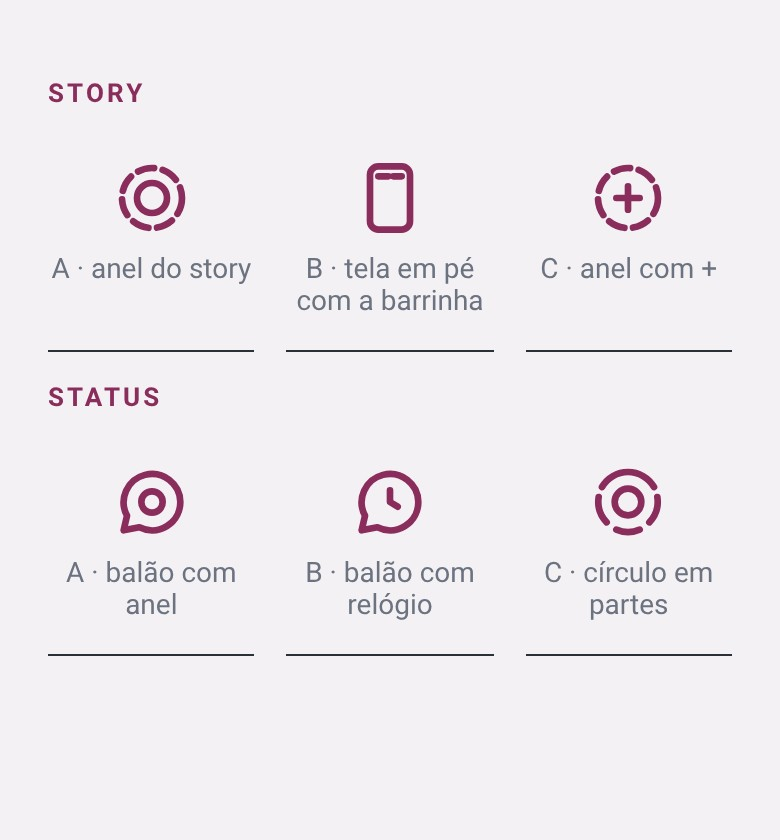
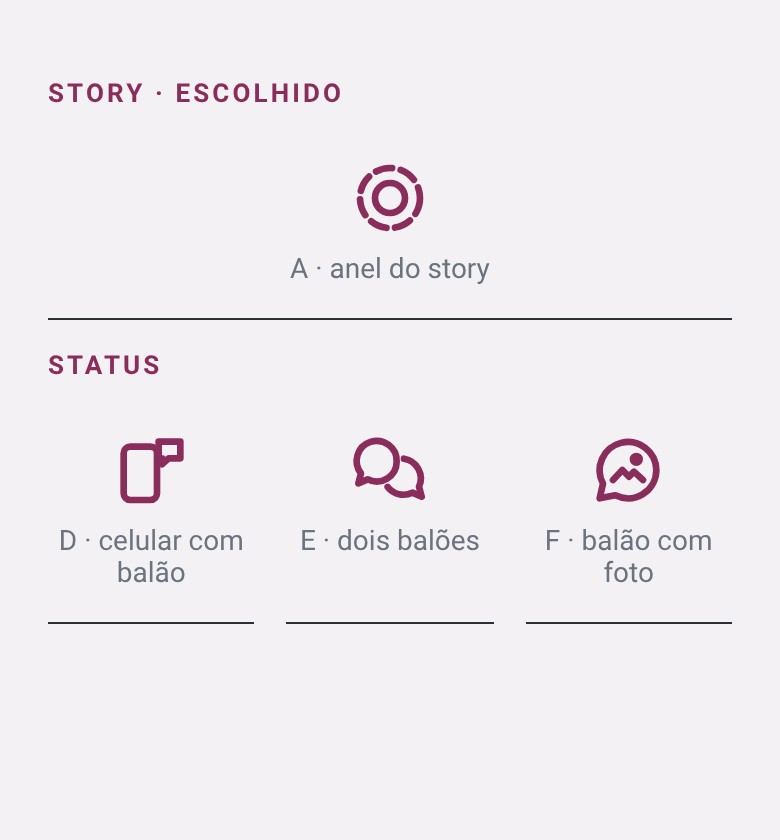
Ícones: Story A escolhido; novas opções de Status
Claude-Session: https://claude.ai/code/session_01Vj5GPRt4UBskC3w8v52h7G

diff --git a/work/semp/icones_story.py b/work/semp/icones_story.py
@@ -3,12 +3,10 @@ import sys;sys.path.insert(0,'/home/claude/lafouch/work/kit')
 import kit
 from playwright.sync_api import sync_playwright
 SV=lambda p:'<svg width="40" height="40" viewBox="0 0 24 24" fill="none" stroke="currentColor" stroke-width="2" stroke-linecap="round" stroke-linejoin="round">'+p+'</svg>'
-OP=[('Story',[('A · anel do story','<circle cx="12" cy="12" r="9" stroke-dasharray="5 2.6"></circle><circle cx="12" cy="12" r="4.5"></circle>'),
-             ('B · tela em pé com a barrinha','<rect x="6" y="2.5" width="12" height="19" rx="2.5"></rect><path d="M8.5 5.5h3M13 5.5h2.5"></path>'),
-             ('C · anel com +','<circle cx="12" cy="12" r="9" stroke-dasharray="5 2.6"></circle><path d="M12 8.5v7M8.5 12h7"></path>')]),
-    ('Status',[('A · balão com anel','<path d="M20.5 12a8.5 8.5 0 0 1-12.3 7.6L3.5 20.5l1-4.4A8.5 8.5 0 1 1 20.5 12z"></path><circle cx="12" cy="12" r="3.2"></circle>'),
-             ('B · balão com relógio','<path d="M20.5 12a8.5 8.5 0 0 1-12.3 7.6L3.5 20.5l1-4.4A8.5 8.5 0 1 1 20.5 12z"></path><path d="M12 8.5V12l2.3 1.4"></path>'),
-             ('C · círculo em partes','<path d="M12 3a9 9 0 0 1 7.8 4.5M20.8 10.5a9 9 0 0 1-2.4 7.6M15.5 20.3a9 9 0 0 1-7 0M5.6 18.1a9 9 0 0 1-2.4-7.6M4.2 7.5A9 9 0 0 1 12 3"></path><circle cx="12" cy="12" r="4"></circle>')])]
+OP=[('Story · escolhido',[('A · anel do story','<circle cx="12" cy="12" r="9" stroke-dasharray="5 2.6"></circle><circle cx="12" cy="12" r="4.5"></circle>')]),
+    ('Status',[('D · celular com balão','<rect x="3.5" y="5" width="10" height="16" rx="2"></rect><path d="M14 3.5h6.5v5H17l-2 1.8V8.5h-1z"></path>'),
+             ('E · dois balões','<path d="M14 9.5a6 6 0 0 1-8.7 5.3L2.5 16l.8-3A6 6 0 1 1 14 9.5z"></path><path d="M16.2 8.6A6 6 0 0 1 20.7 17l.8 3-2.8-1.2a6 6 0 0 1-7.4-1.7"></path>'),
+             ('F · balão com foto','<path d="M20.5 12a8.5 8.5 0 0 1-12.3 7.6L3.5 20.5l1-4.4A8.5 8.5 0 1 1 20.5 12z"></path><path d="M7.5 15l2.8-3 2 2 1.5-1.5 2.7 2.5"></path><circle cx="14.5" cy="8.8" r="1"></circle>')])]
 def html(esc):
   bg,fg,mu,ac=('#0f1216','#e7edf5','#8b9bb0','#f3c0dc') if esc else ('#f4f1f4','#1e161c','#6b7280','#8a2d5c')
   h='<body style="margin:0;background:%s;color:%s;font-family:Roboto,Arial;padding:24px">'%(bg,fg)

diff --git a/docs/FALTA-APROVAR-15-11.md b/docs/FALTA-APROVAR-15-11.md
@@ -857,3 +857,4 @@ Não são esquecimento (estavam na lista, parados de propósito ou por ordem do 
 - 20/11 15:50 — ESBOÇO-IDEIA Semp · tendência refinada (aprovado 15:30): work/semp/esboco_semp_tendencia2_{escuro,claro}.jpg — 3 casos: (1) NÃO tem: nome do modelo, fotos de referência (só no app), 'Modelo · Confirmar', 'Você tem? Não tem nenhum parecido', 'Onde comprar em CDE' (cadastrada / achada no Instagram · não cadastrada, preço, Microcentro, Mapa), 'Cadastrar a nova ›', O Guardião diz, 'Pedir à distribuidora'; (2) TEM com estoque (Óculos solar #13, 9 em estoque): 'O Semp sugere: Postar hoje às 20h' + 'Criar o post'; (3) tem POUCO (Armação #12, 3 em estoque): 'O Guardião diz: Repor 12 un.' + 'Repor'. Substitui o esboço da tendência anterior (obsoletos). COMO FAZER: 'Você tem?' usa a mesma busca por foto do cadastro (≥80%) — uma função só; 'Cadastrar a nova' abre o Novo fornecedor que já existe em Peças. ESPERANDO o dono.
 - 20/11 15:34 — DONO: APROVADA (ideia) a tendência refinada com os 3 casos (work/semp/esboco_semp_tendencia2_*). Mercado aprovado com ela. Próximo: setor Criar.
 - 20/11 15:58 — ESBOÇO-IDEIA Semp · setor CRIAR: work/semp/esboco_semp_criar_{escuro,claro}.jpg — '‹ Marketing · Criar', 'o Semp escolhe as peças e o texto · você pode trocar', 'Formatos': Post, Carrossel, Story, Status, Vídeo, Roteiro, uma linha fina cada (ícone + o que é); tocar abre a janela do formato (tarefa, sem ›). Saem os 6 botões 'Criar com um toque' do Marketing. COMO FAZER: a lista sai do MK_FMT que já existe (um lugar só); cada linha chama o mesmo mkCria de hoje. ESPERANDO o dono.
+- 20/11 15:40 — DONO: ícone do Story = A (anel do story); Status: nenhuma das 3 primeiras serviu → novas opções D (celular com balão), E (dois balões), F (balão com foto) em work/semp/esboco_icones_story_status_*. Sem logotipo do WhatsApp/Instagram (marca da Meta; quebraria o conjunto único de ícones).
